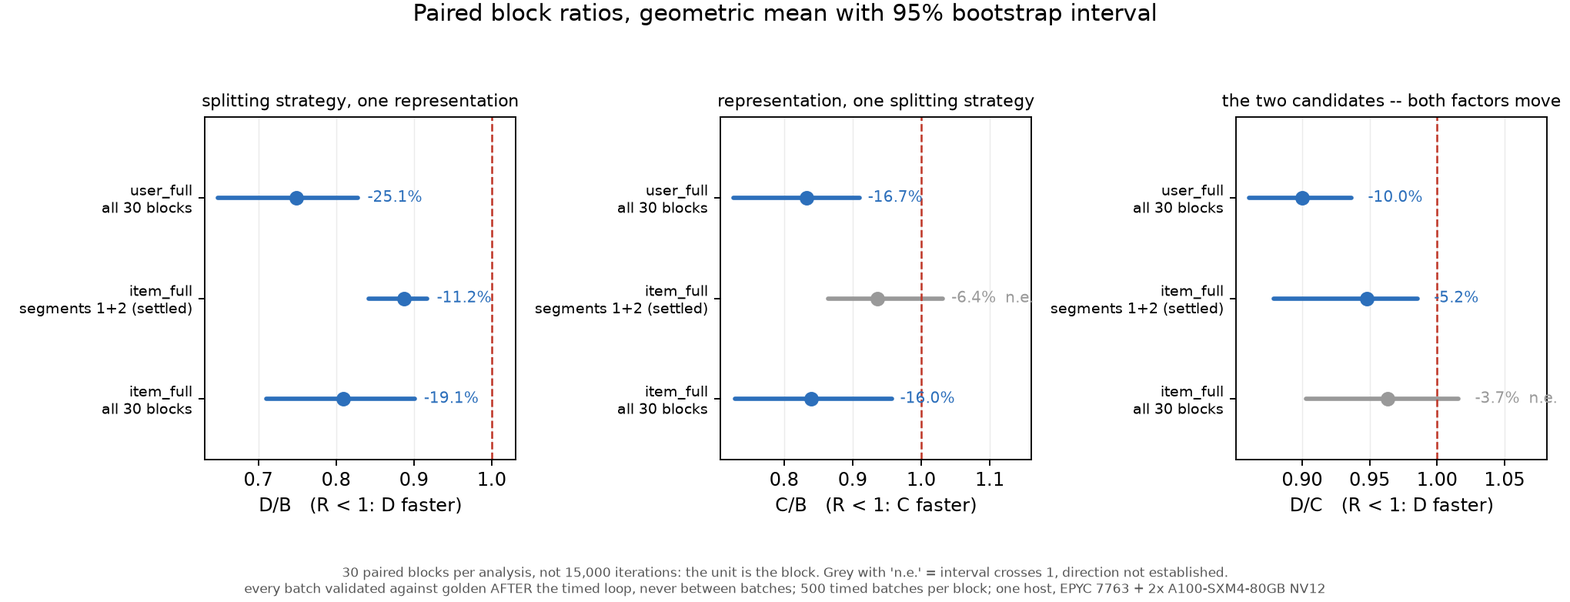
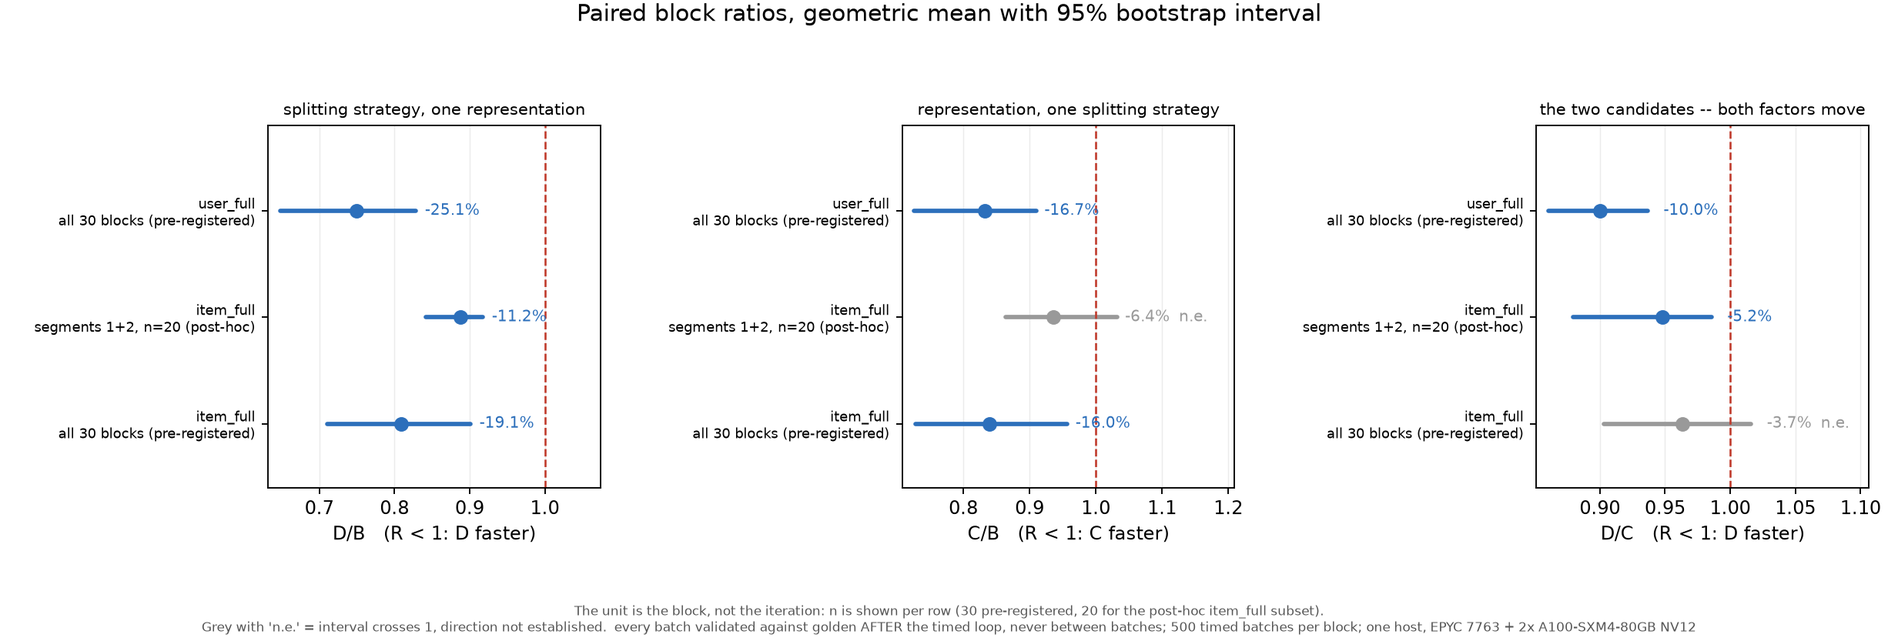
Separate what was measured from what was inferred
Review of 2cb7c2b found four things to fix before this is sent, and one
of them was a claim that was wrong in the opposite direction.

**The compression comparison was backwards.** The result card and the
ledger both explained the difference from the README's compression
figures by the copy back to host, and predicted a smaller gain under the
resident basis. The NVLink gain on device_total is ~5-7%; the gain
measured here is ~16%. It is larger, not smaller, and the two runs also
differ in machine, commit and execution model. The single-cause
explanation is gone from both documents; what remains is that the two
timing bases are not comparable, which was the only defensible part.

**Compression was under-reported.** "Established on one workload and not
the other" was wrong: C/B is below 1 in the pre-registered 30-block
analysis of BOTH workloads (0.840 and 0.833). It stops being established
only in the post-hoc 20-block item_full subset. The correct statement is
that compression pays in the pre-registered analysis and the item_full
gain is sensitive to which segments are used.

**Hypotheses were written as diagnoses.** "Segment 0 is campaign
warm-up" and "host interference" both went further than the data. What
was measured is a drift and four slow blocks. No clock or power trace
was recorded beside those blocks, so settling is a leading hypothesis
that predicted user_full's stability, not a confirmed cause, and a later
[…]

diff --git a/engine/bench/make_architecture_figures.py b/engine/bench/make_architecture_figures.py
@@ -137,13 +137,18 @@ def ratio_figure(data, out_path):
     analyses = []
     for fixture, doc, blocks in data:
         segs = sorted({b["segment"] for b in blocks})
-        analyses.append((f"{fixture}\nall 30 blocks", blocks, set(segs), segs))
+        n_all = len([b for b in blocks if b["segment"] in set(segs)])
+        analyses.append((f"{fixture}\nall {n_all} blocks (pre-registered)",
+                         blocks, set(segs), segs))
         if fixture == "item_full":
-            analyses.append((f"{fixture}\nsegments 1+2 (settled)", blocks,
-                             {1, 2}, [1, 2]))
+            n_sub = len([b for b in blocks if b["segment"] in {1, 2}])
+            # Not "settled": that names a conclusion the label is supposed to
+            # stay neutral about. It is a subset chosen after seeing the data.
+            analyses.append((f"{fixture}\nsegments 1+2, n={n_sub} (post-hoc)",
+                             blocks, {1, 2}, [1, 2]))
 
     comps = ab.COMPARISONS[:3]
-    fig, axes = plt.subplots(1, len(comps), figsize=(12, 4.6), sharex=False)
+    fig, axes = plt.subplots(1, len(comps), figsize=(14.5, 4.9), sharex=False)
     for ax, (x, y, meaning) in zip(axes, comps):
         ys, labels, spans = [], [], []
         for k, (label, blocks, keep, segs) in enumerate(analyses):
@@ -164,23 +169,24 @@ def ratio_figure(data, out_path):
         # right edge and collide with the axis frame.
         lo_all = min(lo for lo, _ in spans)
         hi_all = max(hi for _, hi in spans)
-        pad = (hi_all - lo_all) * 0.42
+        pad = (hi_all - lo_all) * 0.58
         ax.set_xlim(lo_all - (hi_all - lo_all) * 0.06, hi_all + pad)
         ax.set_yticks(ys)
-        ax.set_yticklabels(labels, fontsize=8)
+        ax.set_yticklabels(labels, fontsize=7.6)
         ax.set_ylim(-0.6, len(analyses) - 0.2)
         ax.set_xlabel(f"{x}/{y}   (R < 1: {x} faster)")
-        ax.set_title(meaning, fontsize=9.5)
+        ax.set_title(meaning, fontsize=9)
         ax.grid(axis="x", alpha=0.25, lw=0.6)
         ax.set_axisbelow(True)
     fig.suptitle("Paired block ratios, geometric mean with 95% bootstrap interval",
                  fontsize=12.5, y=0.995)
     fig.text(0.5, 0.015,
-             "30 paired blocks per analysis, not 15,000 iterations: the unit is "
-             "the block. Grey with 'n.e.' = interval crosses 1, direction not "
-             "established.\n" + SCOPE.split(";\n")[1],
+             "The unit is the block, not the iteration: n is shown per row "
+             "(30 pre-registered, 20 for the post-hoc item_full subset).\n"
+             "Grey with 'n.e.' = interval crosses 1, direction not "
+             "established.  " + SCOPE.split(";\n")[1],
              ha="center", fontsize=7.4, color="#555")
-    fig.tight_layout(rect=[0, 0.11, 1, 0.95])
+    fig.tight_layout(rect=[0, 0.12, 1, 0.94], w_pad=2.6)
     fig.savefig(out_path, dpi=170)
     print(f"wrote {out_path}")
 

diff --git a/docs/architecture_ab_20260917.md b/docs/architecture_ab_20260917.md
@@ -71,30 +71,39 @@ reported as one.
 
 | | D/B | C/B | D/C |
 | --- | --- | --- | --- |
-| item_full, segments 1+2 | **0.888** [0.841, 0.918] | 0.936 [0.864, 1.032] *n.e.* | 0.948 [0.879, 0.986] |
-| item_full, all 30 blocks | **0.809** [0.711, 0.901] | 0.840 [0.728, 0.957] | 0.963 [0.903, 1.016] *n.e.* |
-| user_full, all 30 blocks | **0.749** [0.648, 0.828] | 0.833 [0.726, 0.910] | 0.900 [0.861, 0.937] |
+| item_full, all 30 blocks — *pre-registered* | **0.809** [0.711, 0.901] | 0.840 [0.728, 0.957] | 0.963 [0.903, 1.016] *n.e.* |
+| user_full, all 30 blocks — *pre-registered* | **0.749** [0.648, 0.828] | 0.833 [0.726, 0.910] | 0.900 [0.861, 0.937] |
+| item_full, segments 1+2 only — *post-hoc, n=20* | 0.888 [0.841, 0.918] | 0.936 [0.864, 1.032] *n.e.* | 0.948 [0.879, 0.986] |
 
 *n.e.* = interval crosses 1, direction not established.
 
-**Splitting pairs is faster than splitting the rating dimension**, by 11 % to
-25 %, on every analysis of both workloads. Since both devices already hold
+**Splitting pairs gives lower full-batch latency than splitting the rating
+dimension**, by 19.1 % on item_full and 25.1 % on user_full relative to B in
+the pre-registered analysis (11.2 % in the post-hoc item_full subset). Faster
+on every analysis of both workloads. Since both devices already hold
 the whole input, the AllReduce the engine was built around buys nothing that
 the pair split does not get for free.
 
-**The compression result does not survive uniformly.** `C/B` is established
-on user_full and on all 30 item_full blocks, and not established on the two
-settled item_full segments. Both are reported. Which one is quoted cannot be
-chosen after seeing them.
+**Compression pays in the pre-registered analysis, but sensitively.** `C/B` is established
+in the pre-registered analysis of **both** workloads (`C/B` 0.840 and 0.833,
+both intervals below 1). It stops being established in a post-hoc subset of
+item_full that drops segment 0, leaving 20 blocks. The pre-registered result
+is the result; the subset says the item_full gain is sensitive to which time
+segments are used. Neither is quoted in place of the other.
 
-This does **not** contradict the README's compression figures, which are on
-`device_total`, where the AllReduce is a large share of a ~3.2 ms number.
-Here the metric includes the copy back to host, so the collective is a
-smaller fraction of it and a smaller gain is what the same mechanism predicts.
+This cannot be compared to the README's compression figures. Those are on
+`device_total`; this is on `resident_host_complete`, which additionally
+includes the copy back to host — and the two runs also differ in machine,
+commit and execution model. An earlier draft of this document explained the
+difference by the copy back alone, and predicted a *smaller* gain here. That
+was wrong in both direction and reasoning: the NVLink gain on `device_total`
+was ~5–7 %, and the gain measured here is ~16 %. No single-cause explanation
+is offered. The two bases are not comparable, and that is the whole claim.
 
-## Two measurement defects, both found before any formal data
+## Two measurement problems
 
-**Validation between batches cost 1.8×.** Validating each iteration inside the
+**Validation between batches cost 1.8×** — found in the pilot, fixed before
+any formal data was collected. Validating each iteration inside the
 timed loop left both GPUs idle ~5 ms per batch; the driver dropped the SM
 clock from 1410 MHz to ~795 MHz and every later batch ran 1.77× slower, as a
 clean step mid-run. `1410/795 = 1.77` matched the step for one GPU and for
@@ -102,11 +111,21 @@ two. Each iteration now writes to its own output slot and all slots are
 checked after the timed loop: identical coverage, no host work between
 batches. Clock locking is refused inside the container.
 
-**item_full's segment 0 is campaign warm-up.** Its two fastest configurations
-drift +19.9 % (C) and +12.9 % (D) from segment 0 to segment 2 while A and B
-move +0.1 % and +0.2 %. user_full ran immediately afterwards from 30 minutes
-of sustained load and is flat to within 2.5 % in every configuration — the
-prediction that explanation makes, which could have failed.
+**item_full's segment 0 differs from its other two** — found in the formal
+data, not before it. Segment 0 is part of the pre-registered sample and is
+kept in the main analysis. What is measured: C and D drift +19.9 % and
++12.9 % from segment 0 to segment 2, while A and B move +0.1 % and +0.2 %.
+user_full, run immediately afterwards from 30 minutes of sustained load, is
+flat to within 2.5 % in every configuration.
+
+A settling explanation — the GPUs not yet at a steady clock during the first
+ten blocks — is consistent with both observations and predicted the second
+before it was seen. It is **not confirmed**: no clock or power trace was
+recorded alongside these blocks, so other time-correlated causes are not
+excluded, and a later workload being stable does not establish the cause of
+an earlier one. Treat it as an open question with a leading hypothesis, and
+treat the segments 1+2 figures as a post-hoc sensitivity analysis rather than
+as a steady-state measurement.
 
 ## Correctness
 
@@ -120,13 +139,25 @@ golden. Across the whole matrix: **240 config-blocks, 120,000 timed batches,
 | both formal workloads × 4 configs | 8/8 |
 | 20 resident batches reused in one process, each validated | 4/4 |
 | combinations that must be refused (packed, bylen, async, warmup without resident) | 4/4 refused |
-| compute-sanitizer, A and D | 0 errors |
-| compute-sanitizer, B and C | 94, all `cudaErrorPeerAccessAlreadyEnabled` in libnccl bootstrap |
+| compute-sanitizer, A and D (no NCCL init) | `ERROR SUMMARY: 0 errors` |
+| compute-sanitizer, B and C (NCCL init) | **94 reports each**, every one `cudaErrorPeerAccessAlreadyEnabled` with a libnccl backtrace — reclassified, not absent |
 | host test suite on the pod | 13/13 |
 
-The sanitizer asymmetry is itself evidence: A and D never initialise NCCL, so
-their zero is what shows those 94 belong to NCCL rather than to this kernel —
-the same count the warp-packing campaign found, reproduced on a different pod.
+B and C are not "sanitizer clean with zero reports". They have 94 reports
+each, reclassified on two independent grounds: NCCL 2.21.5 handles and clears
+the duplicate-peer-access return code in `src/transport/p2p.cc`, and A and D
+— which never initialise NCCL — report zero on the same binary and fixture.
+Across all four logs the only error kind present is
+`cudaErrorPeerAccessAlreadyEnabled`. Verdicts, the exact command and a
+negative control (B without the allowance must fail, and does) are in
+`results/bench/architecture_pilot_20260917/sanitizer_recheck.txt`; the
+superseded `sanitizer_verdict.txt` is kept beside it with a note explaining
+why it says otherwise.
+
+Per-config detail in the formal records is the **last** output slot's
+`max_abs_diff`; the other 499 are recorded as pass/fail booleans. "All
+120,000 batches passed the tolerance check" is supported by these records;
+"all 120,000 recorded a zero error" is not.
 
 Fault injection (`engine/tests/`): the output checker rejects NaN, ±Inf into
 either side, short arrays, a swap that preserves the emitted count, and a
@@ -144,10 +175,14 @@ caught.
   and its median did not reproduce across processes in pre-flight
   (4.44 / 6.05 / 5.89 ms). `D/A` and `C/A` inherit that; `D/B` and `C/B` do
   not, since those configurations were stable.
-* **Four of 240 config-blocks show host interference** (medians 16–18 ms
-  against a ~3 ms typical, max 41 ms), hitting A and B. They are kept in the
-  headline analysis. Excluding them changes no conclusion and makes every
-  effect *smaller*: item_full D/B 0.809 → 0.853, user_full D/B 0.749 → 0.794.
+* **Four of 240 config-blocks ran 5–6× slow** (medians 16–18 ms against a
+  ~3 ms typical, max 41 ms), all in A or B. The cause was not diagnosed —
+  nothing external was being recorded at the time, so "host interference" is
+  a guess, not a finding. They are **kept** in the headline analysis.
+  Excluding blocks with any configuration above 10 ms changes no conclusion
+  and makes every effect *smaller*: item_full D/B 0.809 → 0.853, user_full
+  D/B 0.749 → 0.794. That threshold and that exclusion were both chosen after
+  seeing the data and are reported as such.
 * **`max_abs_diff = 0` is numeric equality, not a bitwise comparison.** No
   bit-exactness claim is made from it here.
 * **The collective sizes are representation sizes**, not measured link
@@ -155,6 +190,37 @@ caught.
   18,749,712 bytes per rank on item_full. No network counter was read.
 * Not tested: async mode, `bylen` ordering, i32, more than two GPUs, or any
   pair split other than a contiguous even division.
+
+## Checks the protocol asked for that were NOT run
+
+Listed because an unrun check is not a passed one, and none of these is a
+reason to doubt the results above.
+
+* **Timing-boundary perturbation.** `--resident-delay-in-band-ms` and
+  `--resident-delay-out-of-band-ms` exist and type-check in both build
+  variants, but no profiling build was run, so there is no *measured* record
+  that a known delay inside the timed region raises the metric and one
+  outside it does not. `results/bench/architecture_pilot_20260917/timing_boundary.txt`
+  says only that it needs a separate run. The boundary is verifiable by
+  reading the source; it has not been verified by perturbation.
+* **Per-iteration six-statistic read-back / poison test on the GPU path.**
+  What was validated every iteration is the final similarity. The six
+  statistics were not read back and compared per iteration, so the specific
+  failure mode of a reduced buffer being summed again on the next iteration
+  is argued from the source (the stats kernels overwrite rather than
+  accumulate) rather than demonstrated. The 20- and 500-batch reuse runs give
+  indirect evidence: a stale accumulation would change the similarities, and
+  it did not.
+* **Provenance inside the JSON.** `git_sha`, `git_dirty` and `image_digest`
+  are null in these formal records, because the pod received a `git archive`
+  and had no `.git`. The version link comes from `host_manifest.txt` and
+  `binary_hash.txt` beside them, not from the record itself. The pilot and
+  formal binaries are different builds and are hashed separately.
+* **Harness input hardening.** `architecture_ab.py` validates each record's
+  schema and shape but does not yet bind a record to the configuration it was
+  asked for, independently recompute the median it trusts, or refuse to call
+  an incomplete matrix formal. These records were checked separately and are
+  correct on all three counts; the gaps should close before the next run.
 
 ## Reproduction
 

diff --git a/README.md b/README.md
@@ -3,8 +3,10 @@
 One recommender kernel — the Pearson correlation between two items' co-raters —
 extracted from an archived USC INF553 PySpark project, frozen behind a
 numerical contract, and re-implemented across **serial C++, OpenMP, MPI,
-single-GPU CUDA and two-GPU NCCL**, every backend validated bit-exact against
-the same golden similarities.
+single-GPU CUDA and two-GPU NCCL**, every backend checked against the same
+golden similarities: all values finite, agreement within 1e-12, and the
+retained set identical. That is a numerical-tolerance check, not a bitwise
+comparison.
 
 The question it studies: **when is it worth compressing what a collective
 sends?** The shape is familiar from data-parallel training — each GPU computes
@@ -61,15 +63,21 @@ All backends compute, for the same candidate pairs, the six sufficient
 statistics (n, Σx, Σy, Σx², Σy², Σxy) over the intersection of two rating
 rows, with pair-local means, minimum overlap 3, zero-variance ⇒ sim 0, an
 output filter `sim > 1e-14`, and absolute tolerance ≤ 1e-12 against the
-serial reference. Distributed backends (MPI, NCCL) partition the RATING
-DIMENSION and AllReduce partial six-stat tensors — pairs are never sharded.
+serial reference. Under the dimension split (MPI, and NCCL's default) the
+backends partition the RATING DIMENSION and AllReduce partial six-stat
+tensors, and no pair is ever split across devices. `--partition pair` divides
+the candidate pairs instead and runs no collective; each pair is still
+computed in one place, by one device.
 
 ## Results
 
 EPYC 7742 + 2x A100-SXM4-80GB (NV12), `item_full`, 30 trials after 3 warm-ups,
 round-robin with a per-round reshuffle, at commit `174bb1c` with the binaries'
-real defaults. Times are **steady state** (`device_total = stats + allreduce +
-finalize`; async reports `pipeline_total`), excluding load, setup and H2D/D2H.
+real defaults. Each trial is its own process measuring **one batch's device
+stages** (`device_total = stats + allreduce + finalize`; async reports
+`pipeline_total`), excluding load, setup and H2D/D2H. This is not the resident
+batch latency measured in the [work-division study](docs/architecture_ab_20260917.md),
+and the two are not comparable.
 
 | Backend | Median | Speedup vs same-machine serial |
 | --- | --- | --- |
@@ -122,7 +130,7 @@ the previous mapping, with no cold-path penalty. The sort adds another −16.39%
 
 - **Compression pays only when the collective is the bottleneck.** About 7% on
   NVLink, 55% on a host-staged PCIe link. Lossless by construction, so the
-  bit-exact contract survives it untouched. The three hosts ran comparable
+  tolerance contract survives it untouched. The three hosts ran comparable
   builds, not a verified identical one.
 - **Async overlap loses on a fast link**, and this corrects the project's
   original hypothesis. Overlap's ceiling is `min(compute, comm)/total`: it pays
@@ -135,12 +143,15 @@ the previous mapping, with no cold-path penalty. The sort adds another −16.39%
   established. That is written up rather than smoothed over.
 - **Splitting pairs beats splitting the rating dimension.** Both GPUs already
   hold the whole input, so a device can take half the *pairs* and finish them
-  with no collective at all. On a full resident batch that is 11-25% faster
-  than the dimension split this engine was built around, on both workloads
-  (`D/B` 0.749 [0.648, 0.828] on `user_full`). The compression study asks how
+  with no collective at all. On a full resident batch that is **19.1% and
+  25.1% lower latency** than the dimension split this engine was built around,
+  relative to B on `item_full` and `user_full` (`D/B` 0.809 [0.711, 0.901] and
+  0.749 [0.648, 0.828], 30 paired blocks each). The compression study asks how
   cheap the reduction can be; this asks whether it should be there. Under the
-  same metric the compression gain itself is established on one workload and
-  not on the other.
+  same metric compression still pays on both workloads in the pre-registered
+  30-block analysis (`C/B` 0.840 and 0.833); a post-hoc subset of `item_full`
+  no longer separates it from 1, so that gain is sensitive to which time
+  segments are used.
 - **Measurement is a first-class hazard here.** A benchmark that once looked
   16% faster turned out to be measuring the effect of ~490 ms of unrelated host
   work before the timed region. The audit document exists because several
@@ -184,7 +195,7 @@ export, benchmark sweeps, RMSE — is in
 | 2026-09-05 | **Warp packing implemented** — a sub-warp per pair instead of a warp. Default becomes `--group 4 --pair-order source`. The lane-slot model that motivated it does not explain it. | [warp packing](docs/warp_packing_experiment_20260905.md) |
 | 2026-09-06 | Headline re-measured on a clean SHA and **replicated on three independent hosts** (5.3% spread). A 16% shift traced to ~490 ms of diagnostic host work before the timed region; a pure-delay control refuted the explanation I first gave for it. Mechanism left open. | [warp packing §7b](docs/warp_packing_experiment_20260905.md) |
 | 2026-09-06 | README cut from 481 to 168 lines; reproduction steps split out; warp packing given a figure. | [reproduction](docs/reproduction.md) |
-| 2026-09-17 | **Work division measured against the dimension split.** Pair splitting wins by 11-25% on a resident batch; the validator is rebuilt so it can fail; a claim ledger pins every published number to its record and timing basis. | [work division](docs/architecture_ab_20260917.md) · [ledger](docs/claim_ledger_20260917.md) |
+| 2026-09-17 | **Work division measured against the dimension split.** Splitting pairs gives 19.1% / 25.1% lower resident-batch latency than splitting dimensions; the validator is rebuilt so it can fail; a claim ledger pins every published number to its record and timing basis. | [work division](docs/architecture_ab_20260917.md) · [ledger](docs/claim_ledger_20260917.md) |
 
 ## Documents
 

diff --git a/docs/claim_ledger_20260917.md b/docs/claim_ledger_20260917.md
@@ -13,11 +13,13 @@ Two timing bases appear here and they are not interchangeable:
   where there is one, finalize **and the full copy back to host memory**, with
   input already resident. Only the 2026-09-17 work-division study uses it.
 
-A speedup on one basis cannot be compared to a speedup on the other. The
-collective is a large share of a 3.2 ms `device_total` and a smaller share of
-the same batch once the copy back is included, so the same mechanism produces
-a smaller number under `resident_host_complete`. That is expected, not a
-contradiction.
+A speedup on one basis cannot be compared to a speedup on the other, and no
+mechanism is offered here for why they differ. An earlier draft explained the
+difference by the copy back alone and predicted a *smaller* compression gain
+under `resident_host_complete`. The data say the opposite — ~5-7 % on NVLink
+under `device_total`, ~16 % here — and the two runs also differ in machine,
+commit and execution model, so a single-cause account is not available. The
+claim is only that the numbers are not comparable.
 
 **Verified** means recomputed from the raw record during the 2026-09-17
 session. **Carried** means the number is as written up at the time and was not
@@ -38,8 +40,10 @@ EPYC 7742 + 2 × A100-SXM4-80GB NV12 · 30 trials after 3 warm-ups.
 | NCCL async packed, 2 GPU | 3.707 ms | `nccl_async_g2_packed` | verified |
 | Headline speedup | 395.26× | serial ÷ nccl_sync_g2_packed | verified |
 
-**Boundary.** Steady state on one machine, excluding load, setup and H2D/D2H.
-Not a cold start and not an end-to-end recommendation latency.
+**Boundary.** One machine. Each trial is its own process measuring one
+batch's device stages, excluding load, setup and H2D/D2H. Not a cold start,
+not an end-to-end recommendation latency, and **not** the resident batch
+latency measured in the 2026-09-17 study.
 
 > ⚠ `engine/bench/headline_table.py` with no argument reads the **newest**
 > `bench_*.json`, which is `bench_20260906_044505.json` (390.64×) — a
@@ -107,6 +111,13 @@ Source records: `results/bench/architecture_formal_20260917/` · commit
 CUDA 12.4, NCCL 2.21.5, driver 580.126.20 · 30 paired blocks × 500 timed
 batches. **All verified in this session.**
 
+> ⚠ `git_sha`, `git_dirty` and `image_digest` are **null inside these JSON
+> records** — the pod received a `git archive` and had no `.git`. The version
+> link comes from `host_manifest.txt` and `binary_hash.txt` beside them, not
+> from the record itself. The pilot and formal runs are different builds and
+> are hashed separately. `run_bench.environment()` now falls back to a shipped
+> `GIT_SHA` file, but that fix post-dates these records.
+
 | Claim | item_full | user_full |
 | --- | --- | --- |
 | A — 1 GPU, pairs, f64 | 4.461 ms (IQR 0.030) | 3.064 ms (IQR 0.041) |
@@ -126,11 +137,17 @@ batches. **All verified in this session.**
   established on user_full and on all 30 item_full blocks, not established on
   the two settled item_full segments. Both are published; neither is chosen
   after the fact.
-* item_full segment 0 is campaign warm-up (C drifts +19.9 %, D +12.9 %, while
-  A and B move ≤0.2 %); user_full, run from sustained load, is flat to 2.5 %.
-* Four of 240 config-blocks carry host interference (medians 16–18 ms). They
-  are **kept**. Excluding them changes no conclusion and shrinks every effect:
-  item_full D/B 0.809 → 0.853, user_full D/B 0.749 → 0.794.
+* item_full segment 0 differs from its other two: C drifts +19.9 % and
+  D +12.9 % from segment 0 to segment 2, while A and B move ≤0.2 %. user_full,
+  run from sustained load, is flat to 2.5 %. A settling explanation fits both
+  and predicted the second, but **no clock or power trace was recorded**, so
+  the cause is not established. Segment 0 is part of the pre-registered
+  sample and stays in the main analysis.
+* Four of 240 config-blocks ran 5–6× slow (medians 16–18 ms). The cause was
+  not diagnosed; "interference" is a guess. They are **kept**. Excluding
+  blocks with any configuration above 10 ms changes no conclusion and shrinks
+  every effect: item_full D/B 0.809 → 0.853, user_full D/B 0.749 → 0.794.
+  Both the threshold and the exclusion were chosen after seeing the data.
 * `D/A` and `C/A` inherit A's clock bimodality — its median did not reproduce
   across processes in pre-flight (4.44 / 6.05 / 5.89 ms). Treat those two
   rows as weaker than the rest.
@@ -146,7 +163,20 @@ batches. **All verified in this session.**
 | non-finite outputs / goldens | 0 / 0 | verified |
 | retained-set mismatches | 0 | verified |
 | end-to-end RMSE vs archived Spark model | 0.8652 vs 0.8657 | carried |
+| compute-sanitizer, A and D (no NCCL init) | `ERROR SUMMARY: 0 errors` | verified |
+| compute-sanitizer, B and C | 94 reports, every one `cudaErrorPeerAccessAlreadyEnabled` (704) with a libnccl backtrace; target completed and passed validation | verified |
 
 **Boundary.** `max_abs_diff = 0` is **numeric equality, not a bitwise
 comparison**. No bit-exactness claim is derived from it. The only escape a
 numeric zero permits is +0.0 against −0.0; a bitwise check was not run.
+
+B and C are **not** "sanitizer clean with zero reports" — they have 94
+reports each, reclassified rather than absent. Two independent reasons
+support the reclassification: NCCL 2.21.5 explicitly handles and clears the
+duplicate-peer-access return code in `src/transport/p2p.cc`, and A and D,
+which never initialise NCCL, report zero on the same fixture and binary.
+
+Per-config detail in the JSON records is the **last** output slot's
+`max_abs_diff`; the other 499 slots are recorded as pass/fail booleans. So
+"all 120,000 batches passed the tolerance check" is supported; "all 120,000
+batches recorded a zero error" is not.
